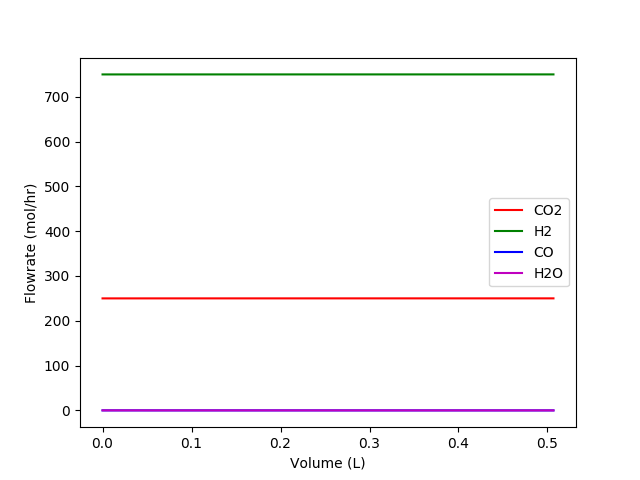
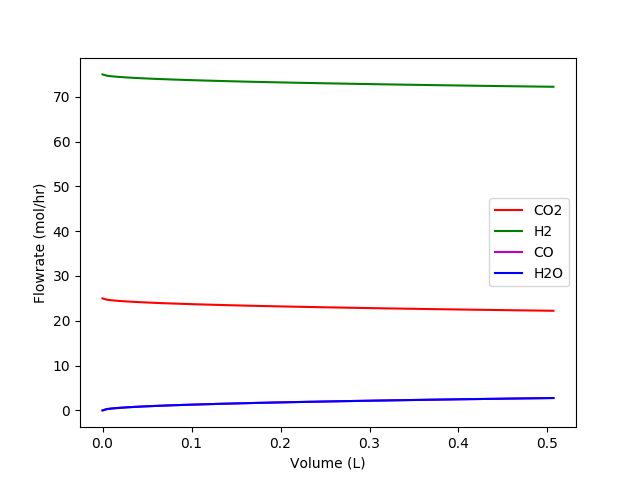
added addnl parameter to the rate expr. working real naice.

diff --git a/rwgs/1rwgs_kinetics.py b/rwgs/1rwgs_kinetics.py
@@ -9,59 +9,78 @@ def mflow(n, MW):
     for i in range(len(MW)):
         mflowTot = mflowTot + n[i]*MW[i]
     return(mflowTot)
+
 #Ergun equation
 def ergun(p, MW, T, R, mflowTot, D):
     rho = 0 #total density of the gas mixture
     for i in range(len(p)):
-        rho = rho + p[i]*MW[i]/(T*R) #g/L
+        rho = rho + p[i]*MW[i]/(T*R) #g/L = kg/m**3
     phi = 0.3 #void fraction
     Dp = D/8 #[] = m. Particle diameter. Using heuristic Weimer gave in class on 10/10/19 that particle diameter should be 1/8 of tube diameter
     Ac = math.pi*(D**2)/4 #[] = m^2. cross sectional area
-    G0 = mflowTot/Ac #g/hr/m^2. mass flux
-    mu = 3.6*0.01849 #3.6 = unit conversion. Value from HYSYS. [] = kg m**-1 hr**-1
-    #differential pressure change
-    dPdV = -150/Ac*(mu*(1-phi)/(Dp*G0)+(7/4))*((1-phi)/phi**3)*(G0**2/(rho*Dp))
-    #conert units from kg m**-4 hr**-2 to atm L**-1
-    dPdV = dPdV/(1000**3)/(3600**2)/(101325)
+    G0 = mflowTot/Ac/3600 #g/s/m^2. mass flux
+    mu = 3.6*0.01849/3600 #3.6 = unit conversion. Value from HYSYS. [] = kg m**-1 s**-1
+    #differential pressure change. want all units in SI.
+    dPdV = -G0*(1-phi)/rho/Ac/Dp/(phi**3)*(150*mu*(1-phi)/Dp + 7/4*G0)
+    #convert units from kg m**-4 hr**-2 to atm L**-1
+    dPdV = dPdV/(1000**3)/(101325)
     return(dPdV)
 
-# f(t, y, c)
-# y = [nCO2, nH2, nCO, nH2O, P]
+# solve_ivp syntax: f(t, y, c)
+# our y = [nCO2, nH2, nCO, nH2O, P]
 def reaction(V, y, C):
-    # unpacking C = [P0CO2, P0H2, k1L0, K2, K3, V[1], MW, T, R, mflowTot, D]
-    P0CO2, P0H2, k1L0, K2, K3, dV, MW, T, R, mflowTot, D = C
-    #calculate p from y = [nCO2, nH2, nCO, nH2O, Ptot]
+    # unpacking C
+    P0CO2, P0H2, dV, MW, T, R, mflowTot, D, Vtot = C
+    #cap each species at zero
+    for i in range(0,4):
+        if y[i] <= 0:
+            y[i] = 0
+    #calculate p's from y = [nCO2, nH2, nCO, nH2O, Ptot]
     ntot = 0
-    gCat = 3950/2
-    Ptot = y[4]
     for i in range(0,4):
         ntot = ntot + y[i]
     p = [0]*4
     for i in range(0,4):
         p[i] = y[i]/ntot*y[4]
+        if y[i] <= 0:
+            p[i], y[i] = 0, 0
+    #parameters needed to find rate
+    #kinetic parameters. taken from results of Gines et al., 1997
+    #k1L0 = (rate of fwd CO2 dissoc.)*(conc. of empty catalyst sites)
+    k1L0 = 0.1287 #units = mol/h/gcat/atm**2
+    K2 = 0.039 #equilibrium constant for H2 adsoprtion
+    K3 = 0.00000101 #equilibrium constant for H2O dissociation
     K = p[2]*p[3]/p[0]/p[1]
-    print('K: ' + str(K))
     X = (P0CO2 - p[0])/P0CO2
-    #rate units = mol/gcat/hr
-    r = k1L0*P0CO2*(P0H2*((1-X)**2) - P0CO2*(X**2)/K)
+    if X >= 1:
+        X = 1
+    #rate [=] mol gCat**-1  hr**-1
+    print('V: ' + str(V))
+    print('K: ' + str(K))
+    print('X: ' + str(X))
+    print('Term1: ' + str(P0H2*((1-X)**2)))
+    print('Term2: ' + str(P0CO2*(X**2)/K))
+    # print('Term3: ' + str((P0H2*(1-X))))
+    # print('Term4: ' + str((K2**0.5)*P0H2*1.5*(((1-X)**1.5))))
+    # print('Term5: ' + str(P0CO2*X/K2/K3))
+    F = 0.00001 #parameter to fix erroneous rate
+    r = k1L0*P0CO2*(P0H2*((1-X)**2)/F - F*P0CO2*(X**2)/K)
     r = r/(P0H2*(1-X) + (K2**0.5)*P0H2*1.5*(((1-X)**1.5)) + P0CO2*X/K2/K3)
+    # r = 10
     print('rate: ' + str(r))
-    #first four entries are dn/dV, 5th is dPtot/dV
-    dydV = [-1*r*gCat*Ptot/(ntot*R*T), -1*r*gCat*Ptot/(ntot*R*T),
-            1*r*gCat*Ptot/(ntot*R*T), 1*r*gCat*Ptot/(ntot*R*T),
-            dV*ergun(p, MW, T, R, mflowTot, D)]
+    #parameters for calculating dydV
+    mCat = 3950*Vtot #cat. loading = Al2O3 density multiplied by vol of 1 tube
+    Ptot = y[4]
+    # dn/dV = dn/dt/Vdot = dn/dt/ndot/R/T*Ptot = nu*r*gCat*Ptot/(ndot*R*T)
+    # first four entries are dn/dV, 5th is dPtot/dV
+    # dydV = [-1*r*mCat*dV*Ptot/(ntot*R*T), -1*r*mCat*dV*Ptot/(ntot*R*T),
+    #         1*r*mCat*dV*Ptot/(ntot*R*T), 1*r*mCat*dV*Ptot/(ntot*R*T),
+    #         ergun(p, MW, T, R, mflowTot, D)]
+    dydV = [-1*r*mCat*Ptot/(ntot*R*T), -1*r*mCat*Ptot/(ntot*R*T),
+            1*r*mCat*Ptot/(ntot*R*T), 1*r*mCat*Ptot/(ntot*R*T),
+            ergun(p, MW, T, R, mflowTot, D)]
+    print('dydV: ' + str(dydV))
     return(dydV)
-
-# OVERALL REACTION: CO2 + H2 -> CO + H2O
-# We have rate r, [r]=mol/hr/g catalyst
-# dnCO2/dt = -r*gCat
-# dnH2/dt = -r*gCat
-# dnCO/dt = r*gCat
-# dnH2O/dt = r*gCat
-#
-# dn/dV = dn/dt/Vdot = dn/dt/ndot/R/T*Ptot = nu*r*gCat*Ptot/(ndot*R*T)
-#
-# y(t) = [nCO2[x1,x2,x3], nH2, nCO, nH2O]
 
 def plotdata(V, sol):
     y = sol.y
@@ -72,8 +91,8 @@ def plotdata(V, sol):
     plt.figure(1)
     plt.plot(V, CO2, 'r', label = 'CO2')
     plt.plot( V, H2, 'g', label = 'H2')
-    plt.plot( V, CO, 'b', label = 'CO')
-    plt.plot( V, H2O, 'm', label = 'H2O')
+    plt.plot( V, CO, 'm', label = 'CO')
+    plt.plot( V, H2O, 'b', label = 'H2O')
     plt.xlabel('Volume (L)')
     plt.ylabel('Flowrate (mol/hr)')
     plt.legend()
@@ -82,22 +101,29 @@ def plotdata(V, sol):
 
 def main():
     #constant parameters
-    R = 0.08205 #gas constant. units = L atm K^-1 mol^-1
-    T = 523 #temperature. units = K
+    R = 0.08205 #gas constant. [=] L atm K**-1 mol**-1
+    T = 523 #isothermal temperature. [=] K
+    Ptot = 44*1.01325 # feed pressure. units converted from bar to atm
+    #reactor dimensions
+    D = 0.0254 #tube diameter. determined from Aboudheir et al. [=] m
+    L = 1 #tube length. [=] m
+    Vtot = 1000*L*math.pi*(D**2)/4 #total volume of 1 tube. units converted to L
+
     #molecular weight dictionary for all species
     MWDict = {'CO2': 44.008, 'H2': 1.008, 'CO': 28.008, 'H2O': 18.016}
     MW = list(MWDict.values()) #create list instead of dictionary for calculations
 
-    #dictionary for feed molar flowrates of each species. units = mol/hr
-    nDict = {'CO2':250, 'H2': 749.98, 'CO': 0.01, 'H2O': 0.01}
+    #feed molar flowrates of each species. [=] mol/hr
+    ratio = 3
+    nDict = {'CO2': 25, 'H2': 1, 'CO': 0.001, 'H2O': 0.001}
+    nDict['H2'] = ratio*nDict['CO2'] - nDict['CO'] - nDict['H2O']
     n = list(nDict.values())
     ntot = 0 #total molar flowrate
     for i in range(len(n)):
         ntot = ntot + n[i]
-    mflowTot = mflow(n, MW)
-    #feed mole fraction dictionary.
+    mflowTot = mflow(n, MW) #total mass flow
+    #feed mole fraction dictionary
     yDict = {'CO2': nDict['CO2']/ntot, 'H2': nDict['H2']/ntot, 'CO': nDict['CO']/ntot, 'H2O': nDict['CO2']/ntot}
-    Ptot = 33*1.01325 #feed pressure. units converted from bar to atm
     #initial partial pressures. units = atm
     pDict = {'CO2': Ptot*yDict['CO2'],
             'H2': Ptot*yDict['H2'],
@@ -109,27 +135,29 @@ def main():
     P0H2 = pDict['H2']
     p = list(pDict.values()) #create list instead of dictionary for calculations
 
-    #kinetic parameters. taken from results of Gines et al., 1997
-    #k1L0 = (rate of fwd CO2 dissoc.)*(conc. of empty catalyst sites)
-    k1L0 = 0.1287 #units = mol/h/gcat/atm**2
-    K2 = 0.039 #equilibrium constant for H2 adsoprtion
-    K3 = 0.125
-    #K3 = 0.00000125 #equilibrium constant for H2O dissociation
-    X = 0.0000001 #conversion (initial)
-    K = pDict['CO']*pDict['H2O']/pDict['CO2']/pDict['H2'] #overall equilibrium constant
-    rate = k1L0*pDict['CO2']/(1 + (K2*pDict['H2'])**0.5) #RWGS rxn rate
-
-    #reactor dimensions.
-    D = 0.0254 #tube diameter. units = m
-    L = 1 #tube length. units = m
-    Vtot = 1000*L*math.pi*(D**2)/4 #total volume of 1 tube. units converted to L
-    V = numpy.linspace(0,Vtot,101)
-
-    # y0 = [nCO20, nH20, nCO0, nH2O0, P0]
-    C = [P0CO2, P0H2, k1L0, K2, K3, V[1], MW, T, R, mflowTot, D]
+    #list of constant args needed for f(t, y, C)
+    V = numpy.linspace(0, Vtot, 101)
+    #dV = V[1]
+    C = [P0CO2, P0H2, V[1], MW, T, R, mflowTot, D, Vtot]
+    # y0 = [nCO20, nH20, nCO0, nH2O0, P0] = molar flowrates, and total pressure.
     y0 = [ nDict['CO2'], nDict['H2'], nDict['CO'], nDict['H2O'], Ptot]
-    #(V, y, P0CO2, P0H2, k1L0, K2, K3, dV, MW, T, R, mflowTot, D)
+    #(V, y, P0CO2, P0H2, k1L0, K2, K3, dV, MW, T, R, mflowTot, D, Vtot)
     sol = solve_ivp(lambda t, y: reaction(t,y,C), [V[0], V[-1]], y0, t_eval = V)
+    # print('sol: ' + str(sol))
+    print('sol.y[0]: ' + str(sol.y[0]))
+
+    #finding total pressure at reactor exit
+    dPdVtot = 0
+    for i in range(len(V)):
+        dPdVtot = dPdVtot + V[1]*sol.y[4][i]
+    print('dPdVtot: ' + str(dPdVtot))
+    Pfinal = 44*1.01325 - dPdVtot*Vtot
+    print('Pfinal: ' + str(Pfinal))
+
+    #final conversion
+    XCO2 = (nDict['CO2'] - sol.y[0][-1])/nDict['CO2']
+    print('XCO2: ' + str(XCO2))
+
     plotdata(V, sol)
 
 if __name__ == '__main__':
